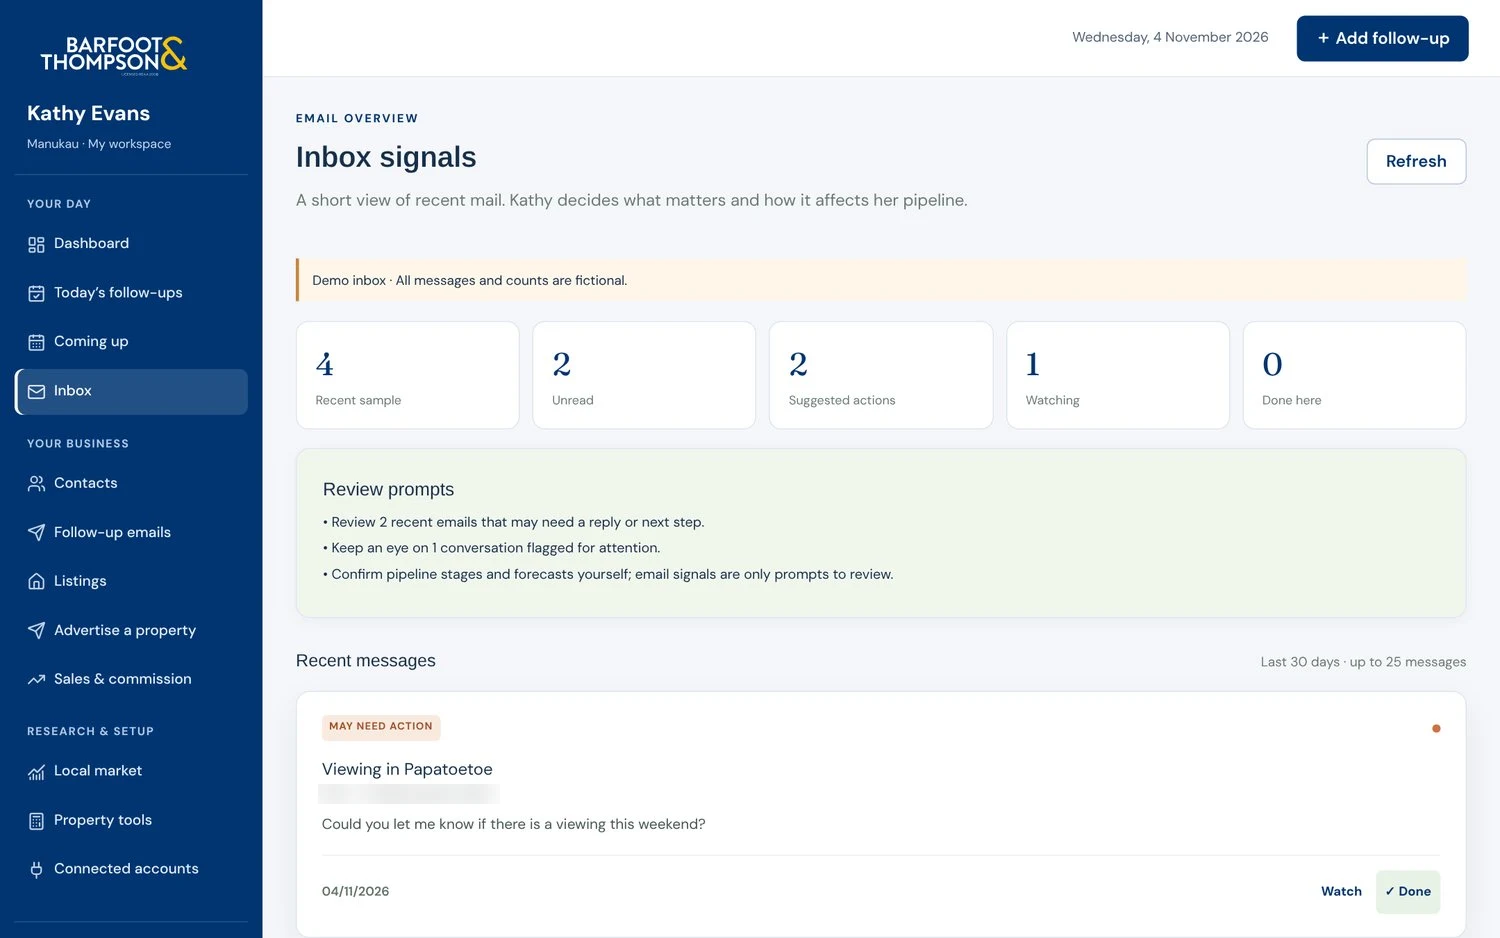
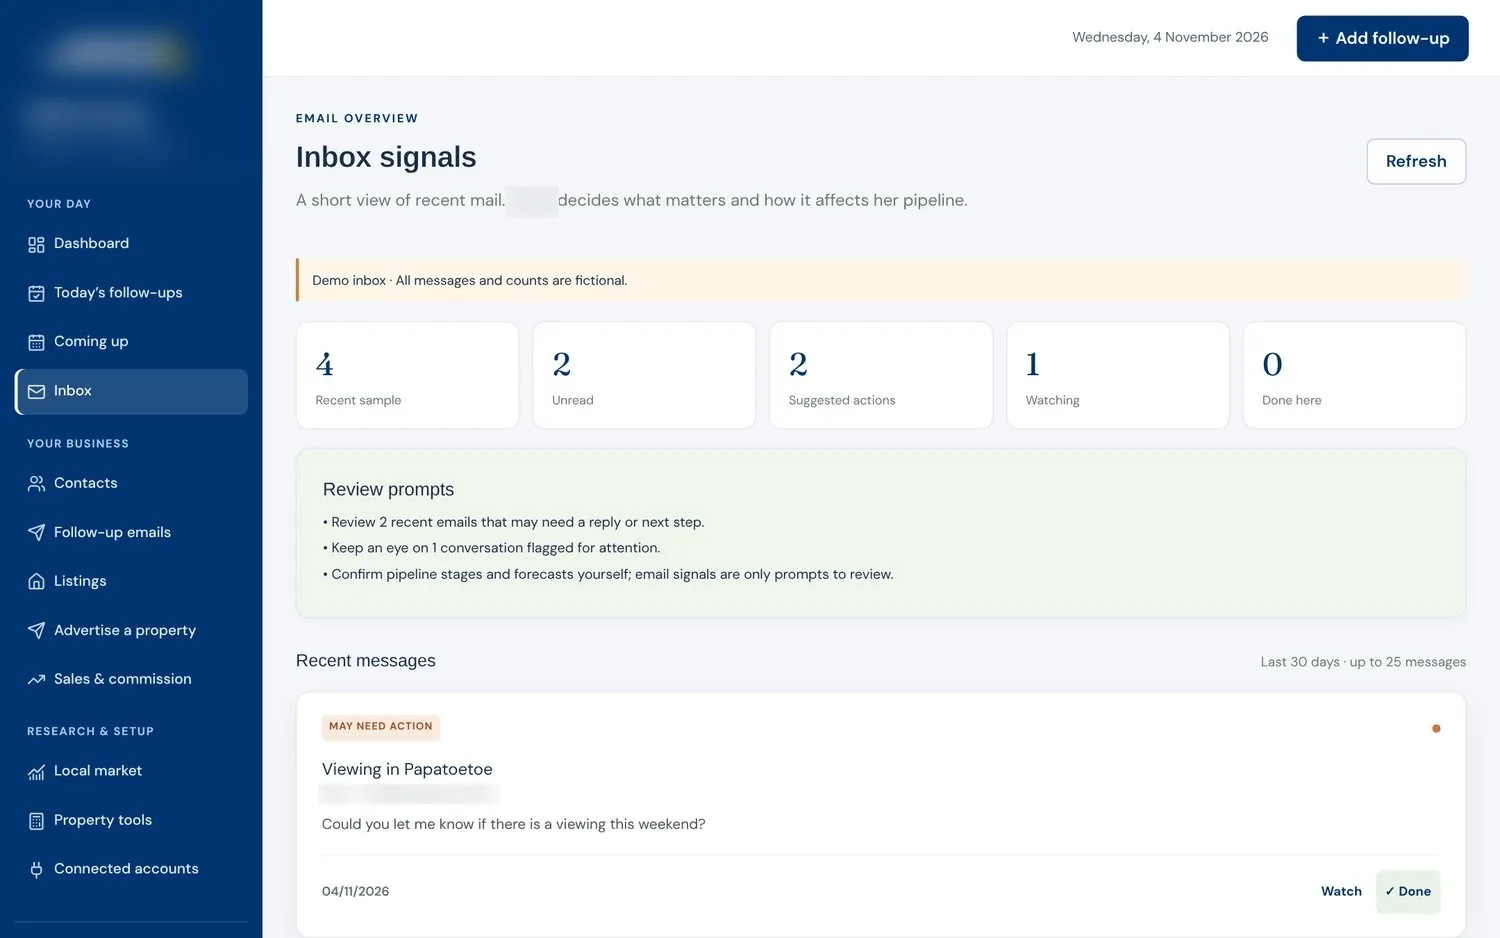
Blur the agent name and agency card in the Real Estate CRM screenshots; restore the non-3D hero on mobile; new hero subheading

Changed region(s): [[0.0, 0.0309, 0.1227, 0.1546], [0.3373, 0.1855, 0.368, 0.2164]]

diff --git a/index.html b/index.html
@@ -28,7 +28,24 @@
   <script defer src="https://cdn.jsdelivr.net/npm/gsap@3.13.0/dist/ScrollTrigger.min.js"></script>
   <script defer src="/site.js"></script>
   <script defer src="/site-gsap.js"></script>
-  <script type="module" src="/assets/hero3d/hero3d.js"></script>
+  <script>
+  // The 3D hero only exists on desktop (see #hero-legacy in site.css); don't ship it to phones.
+  (function () {
+    var mq = window.matchMedia('(min-width: 981px)');
+    var loaded = false;
+    function load() {
+      if (loaded) return;
+      loaded = true;
+      var s = document.createElement('script');
+      s.type = 'module';
+      s.src = '/assets/hero3d/hero3d.js';
+      document.head.appendChild(s);
+    }
+    if (mq.matches) load();
+    else if (mq.addEventListener) mq.addEventListener('change', function (e) { if (e.matches) load(); });
+    else if (mq.addListener) mq.addListener(function (e) { if (e.matches) load(); });
+  })();
+  </script>
 </head>
 <body>
   <a class="skip" href="#main">Skip to content</a>
@@ -101,13 +118,105 @@
       <div class="container hero-grid">
         <div class="hero-copy">
           <h1 class="split">We build practical AI that <span class="grad">grows your business.</span></h1>
-          <p class="lede reveal" style="--d:300ms">We're AI application engineers, product engineers and AI growth consultants. Our background in sales and marketing means we understand the commercial side, and we can build the solutions too.</p>
+          <p class="lede reveal" style="--d:300ms">We are commercially minded AI application and product engineers. Combining deep roots in sales, marketing, and growth consulting with full-stack AI development, we turn business bottlenecks into scalable, revenue-generating software.</p>
           <div class="cta-row reveal" style="--d:420ms">
             <a class="pill" href="#contact">Book a free consultation<span class="arr" aria-hidden="true"><svg viewBox="0 0 16 16" fill="none" stroke="currentColor" stroke-width="1.8" stroke-linecap="round" stroke-linejoin="round"><path d="M3 8h10M9 4l4 4-4 4"/></svg></span></a>
             <a class="pill ghost" href="#services">See our services<span class="arr" aria-hidden="true"><svg viewBox="0 0 16 16" fill="none" stroke="currentColor" stroke-width="1.8" stroke-linecap="round" stroke-linejoin="round"><path d="M3 8h10M9 4l4 4-4 4"/></svg></span></a>
           </div>
         </div>
         <div class="hero-visual reveal" style="--d:250ms">
+          <div id="hero-legacy">
+          <div class="terminal hw" role="group" aria-roledescription="carousel" aria-label="Examples of what we build">
+            <div class="top"><b class="dot"></b><b class="dot"></b><b class="dot"></b><span class="hw-title">crm — pipeline</span></div>
+            <div class="hw-stage"><div class="hw-canvas">
+              <div class="hw-slide on" data-label="Your custom CRM" data-sub="Custom business applications" data-title="crm — pipeline" role="group" aria-roledescription="slide" aria-label="1 of 5: Your custom CRM">
+                <div class="crm">
+                  <aside class="crm-side" aria-hidden="true"><i class="on"></i><i></i><i></i><i></i></aside>
+                  <div class="crm-main">
+                    <div class="crm-head"><b>Pipeline</b><span class="crm-search">Search contacts</span><span class="crm-new">+ New deal</span></div>
+                    <div class="crm-stats"><div><small>Contacts</small><b>1,284</b></div><div><small>Open deals</small><b>18</b></div><div><small>Won this month</small><b class="g">6</b></div></div>
+                    <div class="crm-board">
+                      <div class="crm-col"><p>New <em>4</em></p><div class="crm-card"><b>Harbourside Dental</b><small>Website enquiry · today</small></div><div class="crm-card"><b>Kauri Builders</b><small>Phone call · 1d</small></div></div>
+                      <div class="crm-col"><p>Quoted <em>3</em></p><div class="crm-card"><b>Tui Street Cafe</b><small>Quote sent · 2d</small></div><div class="crm-card move"><b>Ridgeline Physio</b><small>Follow-up booked</small></div></div>
+                      <div class="crm-col"><p>Won <em>6</em></p><div class="crm-card won"><b>Southern Freight</b><small><span class="dotg"></span>Signed · invoice raised</small></div><div class="crm-card"><b>Bayview Motors</b><small>Onboarding</small></div></div>
+                    </div>
+                  </div>
+                </div>
+              </div>
+              <div class="hw-slide" data-label="Smart websites" data-sub="Landing page with a lead form" data-title="yourbusiness.co.nz" role="group" aria-roledescription="slide" aria-label="2 of 5: Smart websites" aria-hidden="true">
+                <div class="web">
+                  <div class="web-body">
+                    <div class="web-nav"><b><i class="web-logo" aria-hidden="true"></i>Your website</b><span>Services</span><span>Reviews</span><span>Contact</span></div>
+                    <div class="web-hero">
+                      <div class="web-copy"><small>AUCKLAND · 7 DAYS</small><h4>Same-day plumbing, booked in minutes.</h4><p>Tell us what's wrong and we'll confirm a time by text.</p><span class="web-rating">★★★★★ <em>Local, licensed, insured</em></span></div>
+                      <div class="web-form"><b>Get a quote</b><span class="in">Name<i>Sam Taylor</i></span><span class="in">Mobile<i>021 555 0142</i></span><span class="in">What do you need?<i>Leaking hot water cylinder</i></span><span class="web-btn">Request a call back</span></div>
+                    </div>
+                    <div class="web-toast"><span class="dotg"></span>New lead → CRM · reply sent</div>
+                  </div>
+                </div>
+              </div>
+              <div class="hw-slide" data-label="Workflow automation" data-sub="Your tools, wired together" data-title="automation — live" role="group" aria-roledescription="slide" aria-label="3 of 5: Workflow automation" aria-hidden="true">
+                <div class="wire">
+                <svg class="wire-svg" viewBox="0 0 460 290" aria-hidden="true" focusable="false">
+                <text class="wl" x="14" y="17">SYSTEMS YOU ALREADY RUN</text>
+                <text class="wl" x="300" y="58">WORK THAT GETS DONE</text>
+                <path class="wb" d="M138 40C172 40 168 148 188 148"/><path class="wf" style="--k:0" d="M138 40C172 40 168 148 188 148"/>
+                <path class="wb" d="M138 76C172 76 168 148 188 148"/><path class="wf" style="--k:1" d="M138 76C172 76 168 148 188 148"/>
+                <path class="wb" d="M138 112C172 112 168 148 188 148"/><path class="wf" style="--k:2" d="M138 112C172 112 168 148 188 148"/>
+                <path class="wb" d="M138 148C172 148 168 148 188 148"/><path class="wf" style="--k:3" d="M138 148C172 148 168 148 188 148"/>
+                <path class="wb" d="M138 184C172 184 168 148 188 148"/><path class="wf" style="--k:4" d="M138 184C172 184 168 148 188 148"/>
+                <path class="wb" d="M138 220C172 220 168 148 188 148"/><path class="wf" style="--k:5" d="M138 220C172 220 168 148 188 148"/>
+                <path class="wb" d="M138 256C172 256 168 148 188 148"/><path class="wf" style="--k:6" d="M138 256C172 256 168 148 188 148"/>
+                <path class="wb" d="M256 148C276 148 274 82 300 82"/><path class="wf out" style="--k:0" d="M256 148C276 148 274 82 300 82"/>
+                <path class="wb" d="M256 148C276 148 274 122 300 122"/><path class="wf out" style="--k:1" d="M256 148C276 148 274 122 300 122"/>
+                <path class="wb" d="M256 148C276 148 274 162 300 162"/><path class="wf out" style="--k:2" d="M256 148C276 148 274 162 300 162"/>
+                <path class="wb" d="M256 148C276 148 274 202 300 202"/><path class="wf out" style="--k:3" d="M256 148C276 148 274 202 300 202"/>
+                <g class="wn" style="--k:0"><rect x="14" y="27" width="124" height="26" rx="5"/><text x="25" y="44">MICROSOFT 365</text></g>
+                <g class="wn" style="--k:1"><rect x="14" y="63" width="124" height="26" rx="5"/><text x="25" y="80">MICROSOFT COPILOT</text></g>
+                <g class="wn" style="--k:2"><rect x="14" y="99" width="124" height="26" rx="5"/><text x="25" y="116">GMAIL / OUTLOOK</text></g>
+                <g class="wn" style="--k:3"><rect x="14" y="135" width="124" height="26" rx="5"/><text x="25" y="152">HUBSPOT</text></g>
+                <g class="wn" style="--k:4"><rect x="14" y="171" width="124" height="26" rx="5"/><text x="25" y="188">SALESFORCE</text></g>
+                <g class="wn" style="--k:5"><rect x="14" y="207" width="124" height="26" rx="5"/><text x="25" y="224">XERO</text></g>
+                <g class="wn" style="--k:6"><rect x="14" y="243" width="124" height="26" rx="5"/><text x="25" y="260">MYOB</text></g>
+                <g class="wo" style="--k:0"><rect x="300" y="68" width="146" height="28" rx="5"/><circle cx="312" cy="82" r="3"/><text x="322" y="86">LEAD ADDED TO CRM</text></g>
+                <g class="wo" style="--k:1"><rect x="300" y="108" width="146" height="28" rx="5"/><circle cx="312" cy="122" r="3"/><text x="322" y="126">FOLLOW-UP EMAIL SENT</text></g>
+                <g class="wo" style="--k:2"><rect x="300" y="148" width="146" height="28" rx="5"/><circle cx="312" cy="162" r="3"/><text x="322" y="166">JOB SCHEDULED</text></g>
+                <g class="wo" style="--k:3"><rect x="300" y="188" width="146" height="28" rx="5"/><circle cx="312" cy="202" r="3"/><text x="322" y="206">REPORT READY</text></g>
+                <circle class="hub-ring" cx="222" cy="148" r="42"/><circle class="hub" cx="222" cy="148" r="34"/><use href="#mf-mark" x="206" y="132" width="32" height="32"/><text class="wl hub-l" x="222" y="208" text-anchor="middle">MAINFRAME</text></svg>
+                  <div class="wire-run"><span class="k">EXAMPLE RUN</span><span class="m">MAINFRAME</span><span class="wire-txt">Outlook enquiry → lead added to HubSpot</span><span class="cursor"></span></div>
+                </div>
+              </div>
+              <div class="hw-slide" data-label="Your iOS &amp; Android app" data-sub="iOS &amp; Android apps" data-title="app — preview" data-frameless="" role="group" aria-roledescription="slide" aria-label="4 of 5: Your iOS and Android app" aria-hidden="true">
+                <div class="app">
+                  <div class="phone"><div class="notch"></div><div class="ph-screen">
+                    <div class="ph-status"><span>9:41</span><span>●●● ▮</span></div>
+                    <p class="ph-hi">Kia ora, Sam</p><h5>Your week</h5>
+                    <div class="ph-card hero-c"><small>NEXT BOOKING</small><b>Tue 10:30 am</b><span>Studio 2 · 60 min</span><em>Check in</em></div>
+                    <div class="ph-row"><i></i><div><b>Lesson notes</b><small>3 new from your coach</small></div></div>
+                    <div class="ph-row"><i></i><div><b>Progress</b><small>Level 2 · 64% complete</small></div></div>
+                    <div class="ph-row"><i></i><div><b>Messages</b><small>Booking confirmed</small></div></div>
+                    <div class="ph-tabs"><i class="on"></i><i></i><i></i><i></i></div>
+                  </div></div>
+                  <div class="app-push"><span class="dotg"></span><div><b>Booking confirmed</b><small>Tue 10:30 am · added to calendar</small></div></div>
+                  <div class="app-stores"><span>iOS</span><span>Android</span></div>
+                </div>
+              </div>
+              <div class="hw-slide" data-label="AI agents" data-sub="AI setup &amp; agents" data-title="assistant — chat" role="group" aria-roledescription="slide" aria-label="5 of 5: AI agents" aria-hidden="true">
+                <div class="chat">
+                  <div class="chat-head"><span class="dotg"></span><b>Ops assistant</b><small>Connected: Xero · Gmail · Calendar</small></div>
+                  <div class="msg me" style="--i:0">Can you chase last week's unpaid invoices?</div>
+                  <div class="msg ai" style="--i:1">Found 3 overdue invoices in Xero. I've drafted a friendly reminder for each. Send them now?</div>
+                  <div class="chips" style="--i:2"><span class="on">Send all 3</span><span>Review first</span></div>
+                  <div class="msg me" style="--i:3">Send all. And book a call with Kauri Builders.</div>
+                  <div class="msg ai typing" style="--i:4"><i></i><i></i><i></i></div>
+                  <div class="chat-in">Ask your assistant…<span>↵</span></div>
+                </div>
+              </div>
+            </div></div>
+          </div>
+          <div class="float-card hw-label" aria-hidden="true"><span class="status-dot"></span><div><b>Your custom CRM</b><small>Custom business applications</small></div></div>
+          <div class="hw-ctrl"><span class="hw-n" aria-hidden="true">01 / 05</span><div class="hw-dots"><button type="button" aria-label="Show slide 1: Your custom CRM" aria-current="true"></button><button type="button" aria-label="Show slide 2: Smart websites"></button><button type="button" aria-label="Show slide 3: Workflow automation"></button><button type="button" aria-label="Show slide 4: Your iOS and Android app"></button><button type="button" aria-label="Show slide 5: AI agents"></button></div><button type="button" class="hw-pause" aria-label="Pause slideshow" aria-pressed="false"><svg class="i-pause" viewBox="0 0 16 16" aria-hidden="true"><path d="M5 3.5v9M11 3.5v9" stroke="currentColor" stroke-width="1.8" stroke-linecap="round"/></svg><svg class="i-play" viewBox="0 0 16 16" aria-hidden="true"><path d="M5 3.5l7 4.5-7 4.5z" fill="currentColor"/></svg></button></div>
+          </div>
           <div id="mf3d">
             <section class="scene-column" aria-label="Interactive 3D CRM demonstration">
               <div class="scene-topline">

diff --git a/site.css b/site.css
@@ -804,3 +804,10 @@ html:not(.js) .enq-steps{display:none}
   .j-path>li>b{font-size:17px}
   .j-path>li>small,.j-path .j-logos li,.fcard small,.j-result li,.j-mid p{font-size:14px}
 }
+/* Hero split: legacy carousel on small screens, 3D command deck on desktop */
+#hero-legacy{display:none}
+@media (max-width:980px){
+  #mf3d{display:none}
+  #hero-legacy{display:block}
+  .hero-visual #hero-legacy .terminal{box-shadow:0 30px 70px rgba(0,0,0,.75),0 0 0 8px #050605}
+}
